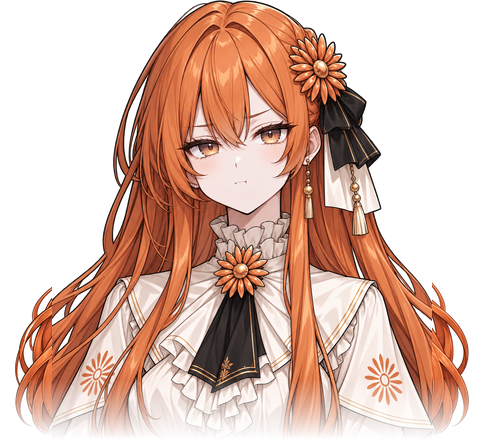
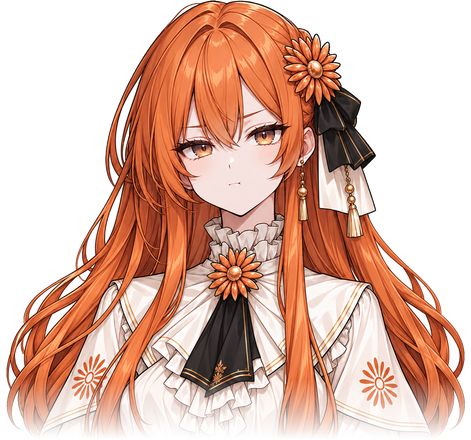
1.5.0: v3 figures are whole AI-redrawn portraits (no pasted strips)
The 1.4.2 images pasted generated side strips next to the original crop, which left
a visible break in the hair. Claude娘's, Grok娘's and GPT娘's expressions are now Codex's
whole generated portraits (hair continuous to its tips), with the white background
removed, a 6 px side margin, the bottom 14 % faded and the width capped at 484 px.
For GPT娘 the white dress is protected from the background cut (stricter white test
below the shoulders, or the generation's own transparency).

diff --git a/Tools/make_v3_assets.py b/Tools/make_v3_assets.py
@@ -102,6 +102,6 @@ def main(char_dir: Path, out: Path):
 if __name__ == "__main__":
     if len(sys.argv) > 4:
         THR, SPREAD = int(sys.argv[3]), int(sys.argv[4])
-    # Note: for Claude娘, Grok娘 and GPT娘 the hair cut off at the crop's left/right edges was afterwards
-    # extended by AI outpainting (see Assets/v3/SOURCE.txt); re-running this tool gives the plain crops.
+    # Note: for Claude娘, Grok娘 and GPT娘 the shipped expressions are whole portraits redrawn by AI from these
+    # crops, so the hair the crops cut off continues (see Assets/v3/SOURCE.txt); re-running this gives the plain crops.
     main(Path(sys.argv[1]), Path(sys.argv[2]))
